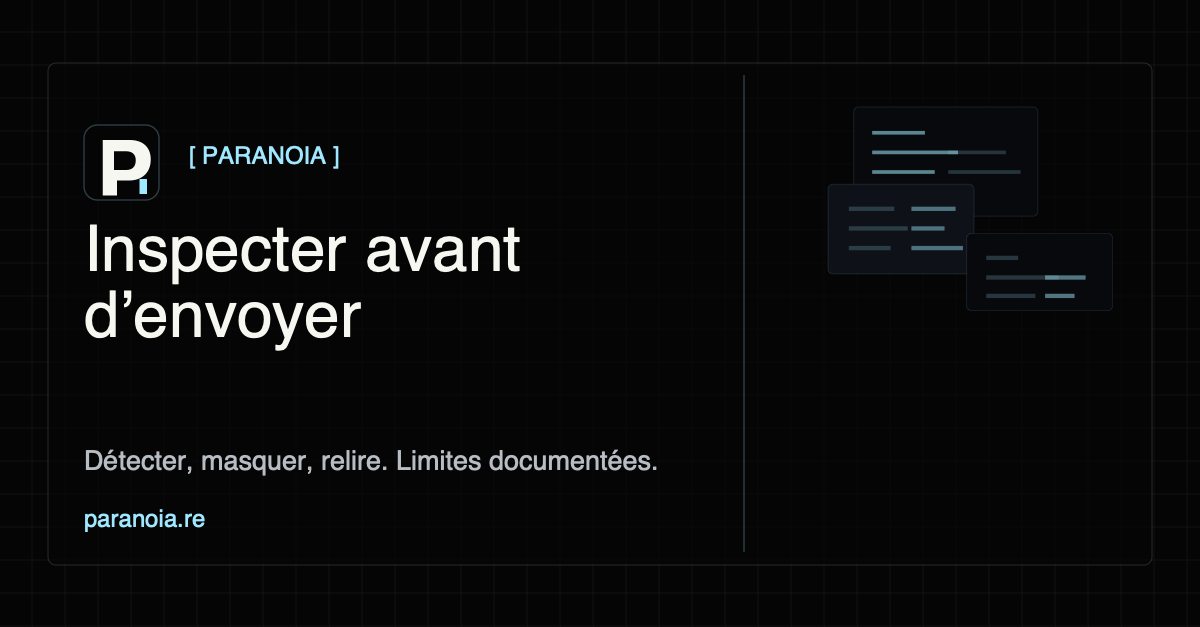
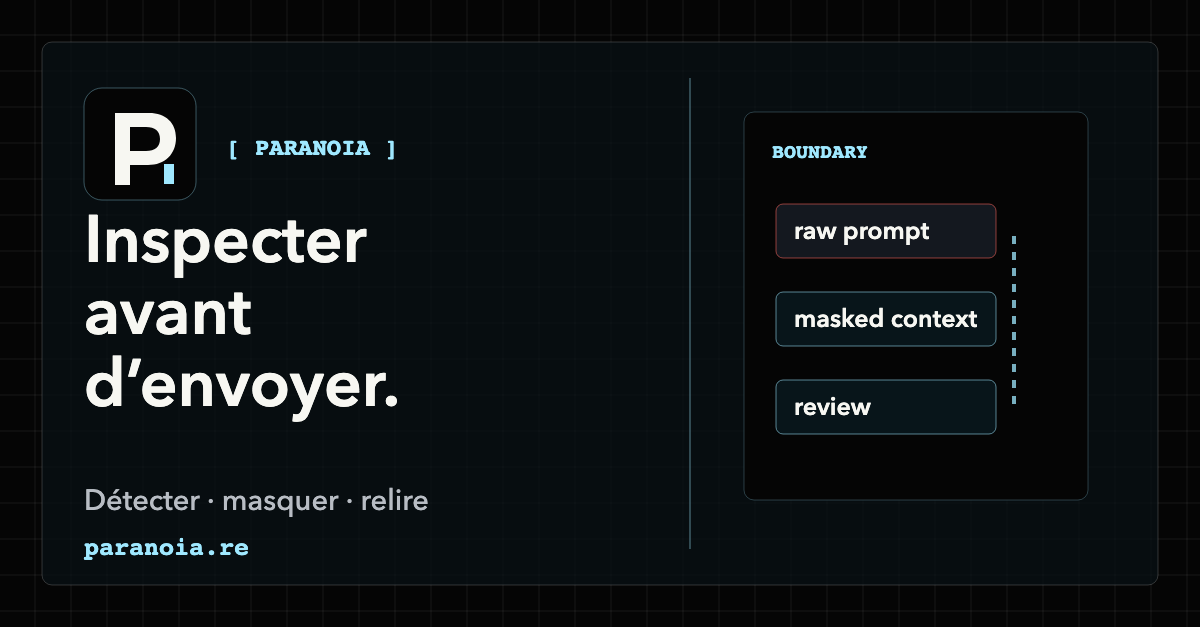
fix: quick wins Lot A — 404 noindex et transparence analytics
Exclut la page 404 de l’indexation, documente Vercel Analytics sur la
page transparence et précise que les prompts ne sont pas stockés.

diff --git a/public/social/README.md b/public/social/README.md
@@ -10,4 +10,4 @@ Generated social-network assets for PARANOIA.
 - `x-header.png` — 1500x500 English X profile header, retouched for the profile-photo safe area.
 - `x-card.png` — 1200x600 X summary_large_image card.
 
-SVG files are retained as editable fallbacks for cover/header/card/share variants.
+SVG files are retained as editable fallbacks for cover/header/card/share variants. LinkedIn shared-link SVG/PNG exports are generated by `tools/linkedin-visual-refresh/generate.mjs`.